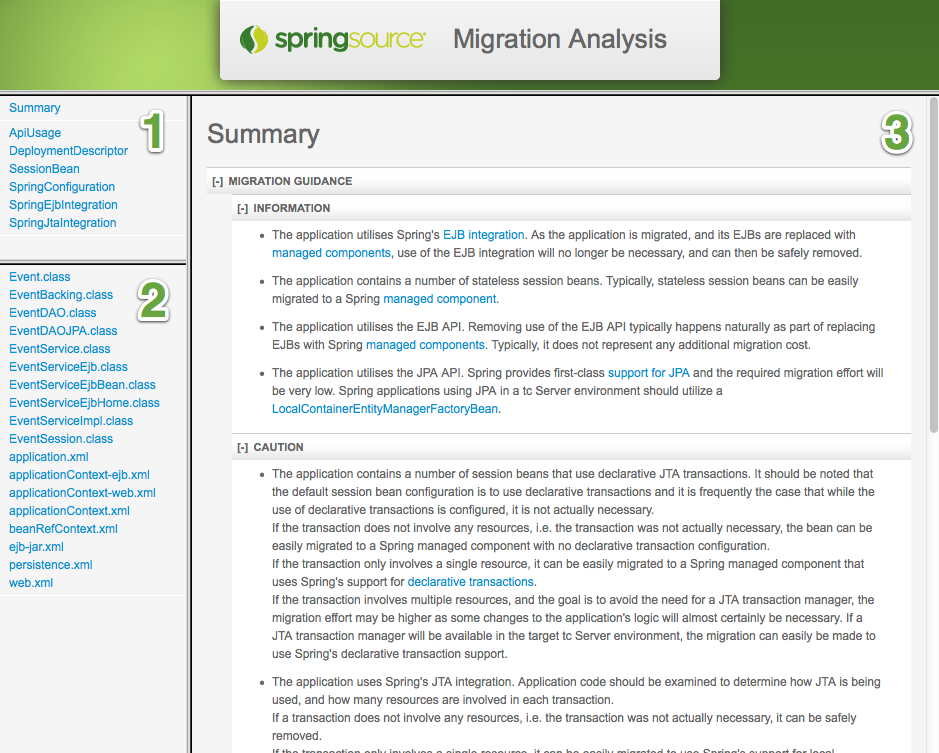
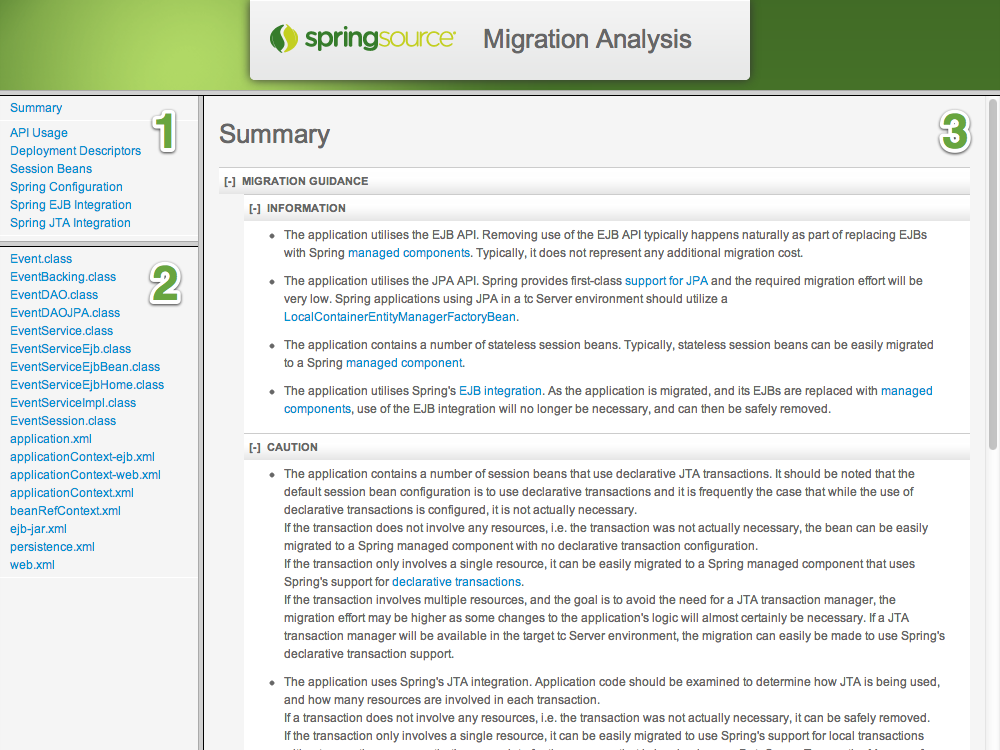
Improve the display of result types' names

Changed region(s): [[0.0, 0.0, 1.0, 1.0], [0.2471, 0.5827, 0.9574, 1.0]]

diff --git a/render/src/main/java/org/springframework/migrationanalyzer/render/support/html/StandardHtmlResultTypeRenderer.java b/render/src/main/java/org/springframework/migrationanalyzer/render/support/html/StandardHtmlResultTypeRenderer.java
@@ -26,6 +26,7 @@ import org.springframework.beans.factory.annotation.Autowired;
 import org.springframework.migrationanalyzer.analyze.AnalysisResult;
 import org.springframework.migrationanalyzer.render.ByResultTypeController;
 import org.springframework.migrationanalyzer.render.OutputPathGenerator;
+import org.springframework.migrationanalyzer.render.support.ResultTypeDisplayNameResolver;
 import org.springframework.migrationanalyzer.util.IoUtils;
 import org.springframework.stereotype.Component;
 
@@ -49,13 +50,16 @@ final class StandardHtmlResultTypeRenderer implements HtmlResultTypeRenderer {
 
     private final ViewRenderer viewRenderer;
 
+    private final ResultTypeDisplayNameResolver resultTypeDisplayNameResolver;
+
     @Autowired
     StandardHtmlResultTypeRenderer(Set<ByResultTypeController> resultTypeControllers, ViewRenderer viewRenderer,
-        RootAwareOutputPathGenerator outputPathGenerator, WriterFactory writerFactory) {
+        RootAwareOutputPathGenerator outputPathGenerator, WriterFactory writerFactory, ResultTypeDisplayNameResolver resultTypeDisplayNameResolver) {
         this.resultTypeControllers = resultTypeControllers;
         this.viewRenderer = viewRenderer;
         this.outputPathGenerator = outputPathGenerator;
         this.writerFactory = writerFactory;
+        this.resultTypeDisplayNameResolver = resultTypeDisplayNameResolver;
     }
 
     @Override
@@ -92,7 +96,7 @@ final class StandardHtmlResultTypeRenderer implements HtmlResultTypeRenderer {
     private Map<String, Object> createContentsModel(Set<Class<?>> resultTypes, OutputPathGenerator locationAwarePathGenerator) {
         Map<String, String> resultUrls = new TreeMap<String, String>();
         for (Class<?> resultType : resultTypes) {
-            resultUrls.put(resultType.getSimpleName(), locationAwarePathGenerator.generatePathFor(resultType));
+            resultUrls.put(getDisplayName(resultType), locationAwarePathGenerator.generatePathFor(resultType));
         }
 
         Map<String, Object> model = new HashMap<String, Object>();
@@ -102,7 +106,7 @@ final class StandardHtmlResultTypeRenderer implements HtmlResultTypeRenderer {
 
     private void renderByResultTypeHeader(Class<?> resultType, Writer writer) {
         Map<String, Object> model = new HashMap<String, Object>();
-        model.put("resultType", resultType.getSimpleName());
+        model.put("resultType", getDisplayName(resultType));
         model.put("pathToRoot", this.outputPathGenerator.generatePathRelativeToRootFor(resultType));
 
         this.viewRenderer.renderViewWithModel(VIEW_NAME_BY_RESULT_HEADER, model, writer);
@@ -110,5 +114,9 @@ final class StandardHtmlResultTypeRenderer implements HtmlResultTypeRenderer {
 
     private void renderByResultTypeFooter(Writer writer) {
         this.viewRenderer.renderViewWithEmptyModel(VIEW_NAME_BY_RESULT_FOOTER, writer);
+    }
+
+    private String getDisplayName(Class<?> resultType) {
+        return this.resultTypeDisplayNameResolver.getDisplayName(resultType);
     }
 }

diff --git a/render/src/main/java/org/springframework/migrationanalyzer/render/support/ReflectiveResultTypeDisplayNameResolver.java b/render/src/main/java/org/springframework/migrationanalyzer/render/support/ReflectiveResultTypeDisplayNameResolver.java
@@ -1,0 +1,71 @@
+/*
+ * Copyright 2012 the original author or authors.
+ *
+ * Licensed under the Apache License, Version 2.0 (the "License");
+ * you may not use this file except in compliance with the License.
+ * You may obtain a copy of the License at
+ *
+ * http://www.apache.org/licenses/LICENSE-2.0
+ *
+ * Unless required by applicable law or agreed to in writing, software
+ * distributed under the License is distributed on an "AS IS" BASIS,
+ * WITHOUT WARRANTIES OR CONDITIONS OF ANY KIND, either express or implied.
+ * See the License for the specific language governing permissions and
+ * limitations under the License.
+ */
+
+package org.springframework.migrationanalyzer.render.support;
+
+import java.lang.reflect.Method;
+import java.util.Map;
+import java.util.concurrent.ConcurrentHashMap;
+
+import org.springframework.stereotype.Component;
+import org.springframework.util.ReflectionUtils;
+
+@Component
+final class ReflectiveResultTypeDisplayNameResolver implements ResultTypeDisplayNameResolver {
+
+    private static final String DISPLAY_NAME_ACCESSOR_METHOD_NAME = "getDisplayName";
+
+    private final Map<Class<?>, String> displayNameCache = new ConcurrentHashMap<Class<?>, String>();
+
+    @Override
+    public String getDisplayName(Class<?> resultType) {
+        String displayName = this.displayNameCache.get(resultType);
+        if (displayName == null) {
+            displayName = doGetDisplayName(resultType);
+            this.displayNameCache.put(resultType, displayName);
+        }
+        return displayName;
+    }
+
+    private String doGetDisplayName(Class<?> resultType) {
+        Method displayNameMethod = ReflectionUtils.findMethod(resultType, DISPLAY_NAME_ACCESSOR_METHOD_NAME);
+        try {
+            if ((displayNameMethod != null)) {
+                ReflectionUtils.makeAccessible(displayNameMethod);
+                return (String) ReflectionUtils.invokeMethod(displayNameMethod, null);
+            }
+        } catch (RuntimeException re) {
+            // Fall back to built display name
+        }
+
+        return buildDisplayName(resultType);
+    }
+
+    private String buildDisplayName(Class<?> resultType) {
+        StringBuilder displayNameBuilder = new StringBuilder();
+        String simpleName = resultType.getSimpleName();
+        for (char c : simpleName.toCharArray()) {
+
+            if ((displayNameBuilder.length() > 0) && Character.isUpperCase(c)) {
+                displayNameBuilder.append(' ');
+            }
+
+            displayNameBuilder.append(c);
+        }
+
+        return displayNameBuilder.toString();
+    }
+}

diff --git a/render/src/test/java/org/springframework/migrationanalyzer/render/support/ReflectiveResultTypeDisplayNameResolverTests.java b/render/src/test/java/org/springframework/migrationanalyzer/render/support/ReflectiveResultTypeDisplayNameResolverTests.java
@@ -1,0 +1,67 @@
+/*
+ * Copyright 2012 the original author or authors.
+ *
+ * Licensed under the Apache License, Version 2.0 (the "License");
+ * you may not use this file except in compliance with the License.
+ * You may obtain a copy of the License at
+ *
+ * http://www.apache.org/licenses/LICENSE-2.0
+ *
+ * Unless required by applicable law or agreed to in writing, software
+ * distributed under the License is distributed on an "AS IS" BASIS,
+ * WITHOUT WARRANTIES OR CONDITIONS OF ANY KIND, either express or implied.
+ * See the License for the specific language governing permissions and
+ * limitations under the License.
+ */
+
+package org.springframework.migrationanalyzer.render.support;
+
+import static org.junit.Assert.assertEquals;
+
+import org.junit.Test;
+
+public final class ReflectiveResultTypeDisplayNameResolverTests {
+
+    private final ReflectiveResultTypeDisplayNameResolver resolver = new ReflectiveResultTypeDisplayNameResolver();
+
+    @Test
+    public void displayNameIsDerivedFromClassNameIfThereIsNoGetDisplayNameMethod() {
+        assertEquals("Reflective Result Type Display Name Resolver Tests", this.resolver.getDisplayName(getClass()));
+    }
+
+    @Test
+    public void displayNameIsDerivedFromClassNameIfGetDisplayNameMethodIsNotStatic() {
+        assertEquals("Not Static", this.resolver.getDisplayName(NotStatic.class));
+    }
+
+    @Test
+    public void displayNameIsDerivedFromClassNameIfGetDisplayNameMethodHasWrongReturnType() {
+        assertEquals("Wrong Return Type", this.resolver.getDisplayName(WrongReturnType.class));
+    }
+
+    @Test
+    public void getDisplayNameMethodIsUsedIfItsCorrectlyFormed() {
+        assertEquals("The display name", this.resolver.getDisplayName(GetDisplayName.class));
+    }
+
+    static final class NotStatic {
+
+        public String getDisplayName() {
+            return "The display name";
+        }
+    }
+
+    static final class WrongReturnType {
+
+        public static char[] getDisplayName() {
+            return "The display name".toCharArray();
+        }
+    }
+
+    static final class GetDisplayName {
+
+        public static String getDisplayName() {
+            return "The display name";
+        }
+    }
+}

diff --git a/render/src/main/java/org/springframework/migrationanalyzer/render/support/ResultTypeDisplayNameResolver.java b/render/src/main/java/org/springframework/migrationanalyzer/render/support/ResultTypeDisplayNameResolver.java
@@ -1,0 +1,42 @@
+/*
+ * Copyright 2012 the original author or authors.
+ *
+ * Licensed under the Apache License, Version 2.0 (the "License");
+ * you may not use this file except in compliance with the License.
+ * You may obtain a copy of the License at
+ *
+ * http://www.apache.org/licenses/LICENSE-2.0
+ *
+ * Unless required by applicable law or agreed to in writing, software
+ * distributed under the License is distributed on an "AS IS" BASIS,
+ * WITHOUT WARRANTIES OR CONDITIONS OF ANY KIND, either express or implied.
+ * See the License for the specific language governing permissions and
+ * limitations under the License.
+ */
+
+package org.springframework.migrationanalyzer.render.support;
+
+/**
+ * A {@code ResultTypeDisplayNameResolver} is used to resolve the display name for a result type. A display name is a
+ * name that is suitable for inclusion in a report.
+ * 
+ * <p />
+ * 
+ * <strong>Concurrent Semantics</strong><br />
+ * 
+ * Implementations <strong>must</strong> be thread-safe
+ * 
+ * 
+ * 
+ */
+public interface ResultTypeDisplayNameResolver {
+
+    /**
+     * Returns the name for the given <code>resultType</code> that is suitable for display in a report.
+     * 
+     * @param resultType The result type
+     * @return The result type's display name
+     */
+    String getDisplayName(Class<?> resultType);
+
+}

diff --git a/render/src/test/java/org/springframework/migrationanalyzer/render/support/html/StandardHtmlResultTypeRendererTests.java b/render/src/test/java/org/springframework/migrationanalyzer/render/support/html/StandardHtmlResultTypeRendererTests.java
@@ -33,6 +33,7 @@ import org.mockito.Mockito;
 import org.springframework.migrationanalyzer.analyze.AnalysisResult;
 import org.springframework.migrationanalyzer.analyze.fs.FileSystemEntry;
 import org.springframework.migrationanalyzer.render.ByResultTypeController;
+import org.springframework.migrationanalyzer.render.support.ResultTypeDisplayNameResolver;
 
 @SuppressWarnings("rawtypes")
 public class StandardHtmlResultTypeRendererTests {
@@ -42,7 +43,7 @@ public class StandardHtmlResultTypeRendererTests {
     private final ViewRenderer viewRenderer = mock(ViewRenderer.class);
 
     private final StandardHtmlResultTypeRenderer renderer = new StandardHtmlResultTypeRenderer(this.resultTypeControllers, this.viewRenderer,
-        mock(RootAwareOutputPathGenerator.class), mock(WriterFactory.class));
+        mock(RootAwareOutputPathGenerator.class), mock(WriterFactory.class), mock(ResultTypeDisplayNameResolver.class));
 
     @SuppressWarnings("unchecked")
     @Test

diff --git a/contributions/src/main/java/org/springframework/migrationanalyzer/contributions/ejb/SessionBean.java b/contributions/src/main/java/org/springframework/migrationanalyzer/contributions/ejb/SessionBean.java
@@ -148,4 +148,14 @@ public final class SessionBean extends NonMessageDrivenEjb implements Transactio
     public void addTransactionPropagationTypes(Set<TransactionPropagationType> transactionPropagationTypes) {
         this.transactionPropagationTypes.addAll(transactionPropagationTypes);
     }
+
+    /**
+     * Returns a name for this type, suitable for display in a report
+     * 
+     * @return The type's display name
+     */
+    public static String getDisplayName() {
+        return "Session Beans";
+    }
+
 }

diff --git a/contributions/src/main/java/org/springframework/migrationanalyzer/contributions/ejb/MessageDrivenBean.java b/contributions/src/main/java/org/springframework/migrationanalyzer/contributions/ejb/MessageDrivenBean.java
@@ -60,4 +60,13 @@ final class MessageDrivenBean extends Ejb implements TransactionalEjb {
     public void addTransactionPropagationTypes(Set<TransactionPropagationType> transactionPropagationTypes) {
         this.transactionPropagationTypes.addAll(transactionPropagationTypes);
     }
+
+    /**
+     * Returns a name for this type, suitable for display in a report
+     * 
+     * @return The type's display name
+     */
+    public static String getDisplayName() {
+        return "Message-Driven Beans";
+    }
 }

diff --git a/contributions/src/main/java/org/springframework/migrationanalyzer/contributions/spring/SpringJndiIntegration.java b/contributions/src/main/java/org/springframework/migrationanalyzer/contributions/spring/SpringJndiIntegration.java
@@ -24,4 +24,13 @@ class SpringJndiIntegration extends AbstractSpringIntegration {
     SpringJndiIntegration(String name, FileSystemEntry location) {
         super("JNDI", "spring-jndi-integration-guidance", MigrationCost.LOW, name, location);
     }
+
+    /**
+     * Returns a name for this type, suitable for display in a report
+     * 
+     * @return The type's display name
+     */
+    public static String getDisplayName() {
+        return "Spring JNDI Integration";
+    }
 }

diff --git a/contributions/src/main/java/org/springframework/migrationanalyzer/contributions/spring/SpringJtaIntegration.java b/contributions/src/main/java/org/springframework/migrationanalyzer/contributions/spring/SpringJtaIntegration.java
@@ -24,4 +24,13 @@ class SpringJtaIntegration extends AbstractSpringIntegration {
     SpringJtaIntegration(String name, FileSystemEntry location) {
         super("JTA", "spring-jta-integration-guidance", MigrationCost.MEDIUM, name, location);
     }
+
+    /**
+     * Returns a name for this type, suitable for display in a report
+     * 
+     * @return The type's display name
+     */
+    public static String getDisplayName() {
+        return "Spring JTA Integration";
+    }
 }

diff --git a/contributions/src/main/java/org/springframework/migrationanalyzer/contributions/ejb/EntityBean.java b/contributions/src/main/java/org/springframework/migrationanalyzer/contributions/ejb/EntityBean.java
@@ -148,4 +148,13 @@ public final class EntityBean extends NonMessageDrivenEjb {
     public void setAbstractSchemaName(String abstractSchemaName) {
         this.abstractSchemaName = abstractSchemaName;
     }
+
+    /**
+     * Returns a name for this type, suitable for display in a report
+     * 
+     * @return The type's display name
+     */
+    public static String getDisplayName() {
+        return "Entity Beans";
+    }
 }

diff --git a/contributions/src/main/java/org/springframework/migrationanalyzer/contributions/spring/SpringEjbIntegration.java b/contributions/src/main/java/org/springframework/migrationanalyzer/contributions/spring/SpringEjbIntegration.java
@@ -25,4 +25,13 @@ final class SpringEjbIntegration extends AbstractSpringIntegration {
         super("EJB", "spring-ejb-integration-guidance", MigrationCost.LOW, name, location);
     }
 
+    /**
+     * Returns a name for this type, suitable for display in a report
+     * 
+     * @return The type's display name
+     */
+    public static String getDisplayName() {
+        return "Spring EJB Integration";
+    }
+
 }

diff --git a/contributions/src/main/java/org/springframework/migrationanalyzer/contributions/apiusage/ApiUsage.java b/contributions/src/main/java/org/springframework/migrationanalyzer/contributions/apiusage/ApiUsage.java
@@ -117,4 +117,13 @@ public final class ApiUsage {
     public String toString() {
         return String.format("'%s' uses the '%s' API (%s)", this.user, this.apiName, this.type);
     }
+
+    /**
+     * Returns a name for this type, suitable for display in a report
+     * 
+     * @return The type's display name
+     */
+    public static String getDisplayName() {
+        return "API Usage";
+    }
 }
